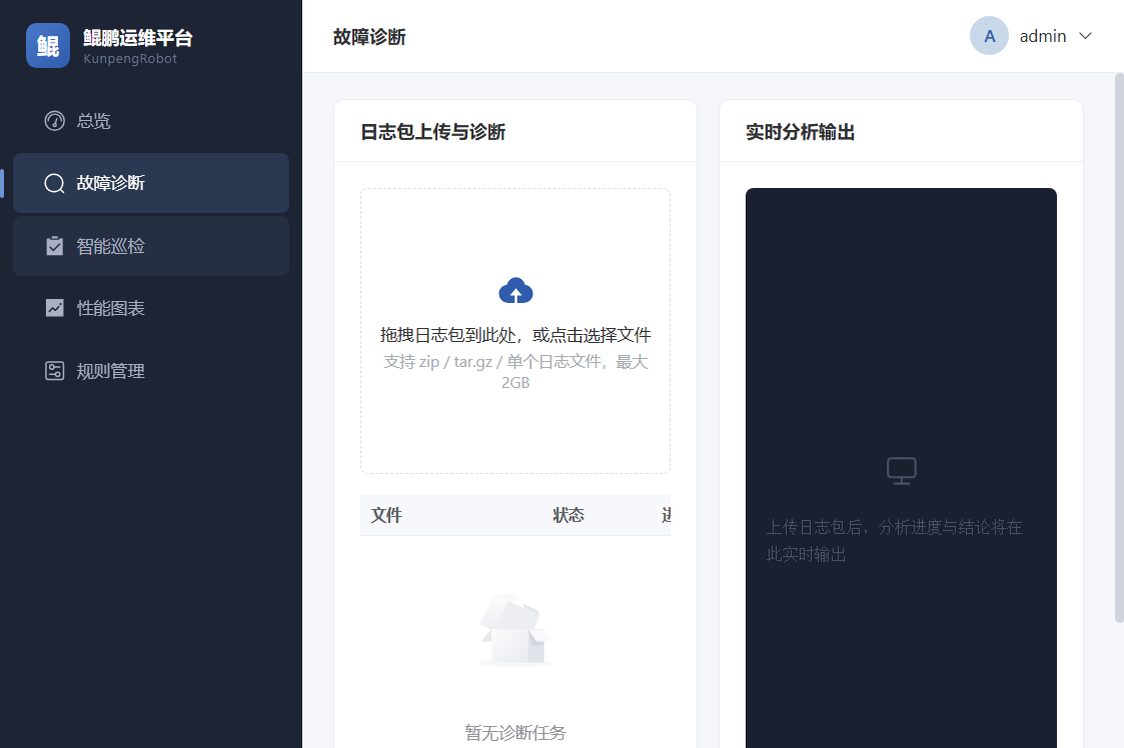
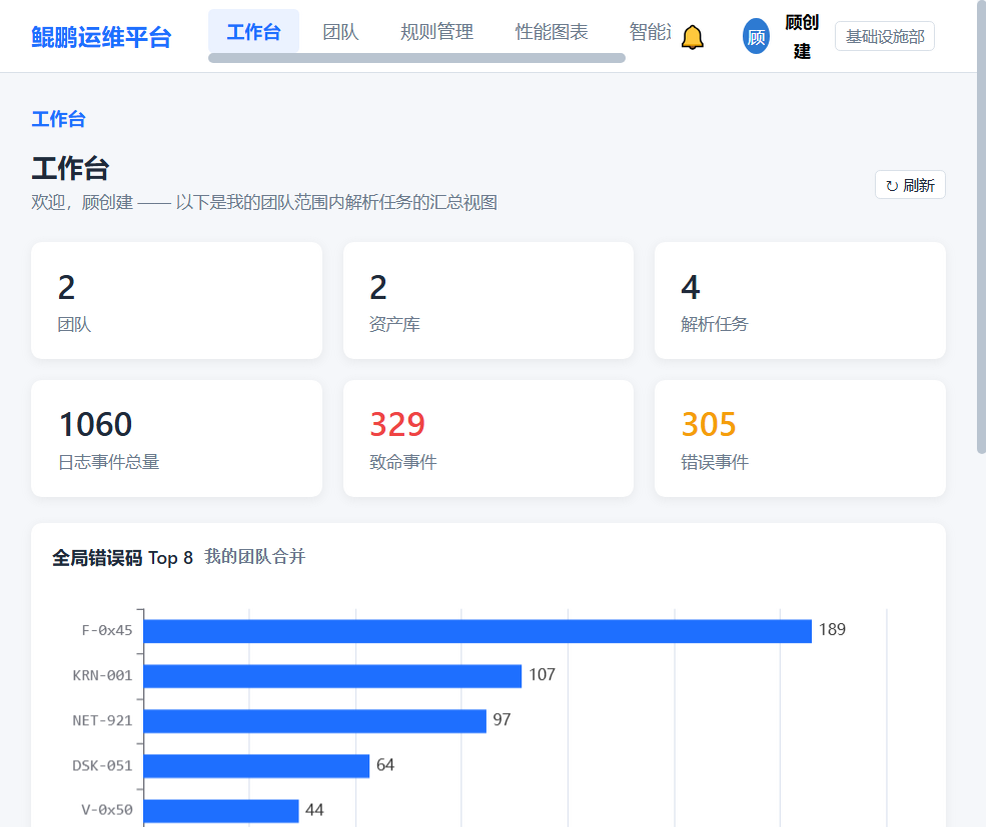
docs: 更新 v0.2 新版界面截图与 README 界面预览

diff --git a/README.md b/README.md
@@ -17,19 +17,23 @@
 
 ## 界面预览
 
-> 以下为 v0.1 旧版（Element Plus）界面截图，v0.2 已切换为 o-design 风格新前端，新版截图待补充。
+以下为 v0.2（o-design 风格）界面截图。
 
-| 登录 | 总览 |
+| 登录 | 工作台总览 |
 |------|------|
-| ![登录页](docs/screenshots/01-login.png) | ![总览](docs/screenshots/02-dashboard.png) |
+| ![登录页](docs/screenshots/01-login.png) | ![工作台总览](docs/screenshots/02-dashboard.png) |
 
-| 故障诊断 | 智能巡检 |
+| 团队列表 | 团队详情 |
 |----------|----------|
-| ![故障诊断](docs/screenshots/03-diagnosis.png) | ![智能巡检](docs/screenshots/06-inspection.png) |
+| ![团队列表](docs/screenshots/03-teams.png) | ![团队详情](docs/screenshots/04-team-detail.png) |
 
-| 性能图表 | 规则管理 |
+| 任务结果分析 | 规则管理 |
 |----------|----------|
-| ![性能图表](docs/screenshots/04-metrics.png) | ![规则管理](docs/screenshots/05-rules.png) |
+| ![任务结果分析](docs/screenshots/05-task-result.png) | ![规则管理](docs/screenshots/06-rules.png) |
+
+| 性能图表 | 智能巡检 |
+|----------|----------|
+| ![性能图表](docs/screenshots/07-metrics.png) | ![智能巡检](docs/screenshots/08-inspection.png) |
 
 ## 技术栈
 
